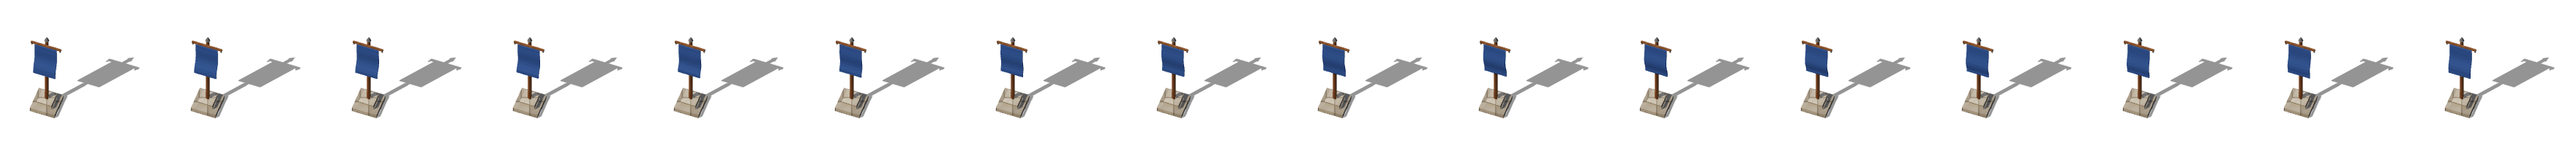
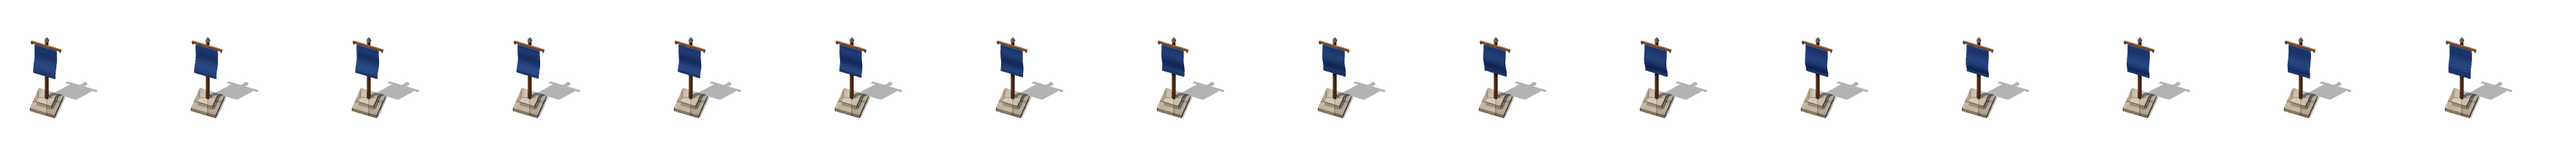
Campaign and menus: names in the title font, outlined flag with gold ripples and shorter shadows, gold glow on the selected stage, progress bar, fade-in menus, pressable buttons and gold main buttons
Claude-Session: https://claude.ai/code/session_01AE8sRRsVdpH9ETfQvtppox

Changed region(s): [[0.0, 0.39, 1.0, 0.78]]

diff --git a/index.html b/index.html
@@ -152,7 +152,8 @@ button.danger{border-color:#6b3a33;color:var(--bad)}
 .campSheet{display:flex;flex-direction:column;align-items:center;gap:8px;width:min(720px,100%);max-height:100%}
 #campMap{width:100%;flex:1 1 auto;min-height:0;display:flex;justify-content:center}
 #campMap svg{width:100%;height:auto;max-height:calc(100dvh - 190px);border-radius:10px;border:1px solid #4a4838}
-#campMap .mk{cursor:pointer} #campMap .mk.sel circle.ring{stroke:#fff;stroke-width:3;stroke-dasharray:6 4}
+#campMap .mk{cursor:pointer} #campMap .mk circle.ring{transition:stroke-width .2s} #campMap .mk.sel circle.ring{stroke:#ffd76a;stroke-width:3.5;filter:drop-shadow(0 0 6px rgba(255,205,90,.95)) drop-shadow(0 0 14px rgba(255,190,60,.6));animation:selGlow 1.8s ease-in-out infinite alternate}
+@keyframes selGlow{from{stroke-opacity:.65}to{stroke-opacity:1}}
 #campInfo{width:100%;text-align:center;font-size:12px;color:var(--muted);letter-spacing:.08em;text-transform:uppercase}
 #campMap svg{max-height:calc(100dvh - 120px)!important}
 #stagePrev{background:rgba(12,13,9,.94);z-index:62}
@@ -178,6 +179,18 @@ button.danger{border-color:#6b3a33;color:var(--bad)}
 .modal.tome #campMap svg{border:none!important;border-radius:6px;box-shadow:0 10px 34px rgba(0,0,0,.7)!important}
 /* the three map cards line up: names get two lines' room, so Mountain pass's picture sits level with the others */
 .mapBtn{justify-content:flex-start;padding:13px 13px 12px;width:min(186px,29vw)} .mapBtn b{min-height:2.3em;display:flex;align-items:center;justify-content:center;line-height:1.1}
+/* campaign progress: stages won, a slim gold bar, stars (Jack) */
+.campProg{display:flex;align-items:center;gap:8px;width:min(260px,70%);font-size:12px;color:#d9cfb3;letter-spacing:.04em;margin-top:-4px}
+.campProg i{flex:1;height:5px;border-radius:3px;background:rgba(0,0,0,.45);box-shadow:inset 0 0 0 1px rgba(201,160,62,.35);overflow:hidden} .campProg i b{display:block;height:100%;background:linear-gradient(90deg,#9c7224,#f0c95a)}
+/* menus fade in (shown by clearing [hidden], which restarts the animation) */
+.modal.tome:not([hidden]){animation:menuIn .28s ease-out} .modal.tome:not([hidden]) > *{animation:menuRise .34s ease-out}
+@keyframes menuIn{from{opacity:0}to{opacity:1}} @keyframes menuRise{from{opacity:0;transform:translateY(10px) scale(.985)}to{opacity:1;transform:none}}
+/* buttons press in and brighten; the main action is gold with a slow shine passing over it */
+.modal.tome button,#newCards button{transition:transform .08s ease-out,filter .12s} .modal.tome button:active,#newCards button:active{transform:scale(.95);filter:brightness(1.25)}
+.modal.tome button.primary,#newCards button.primary{position:relative;overflow:hidden;background:linear-gradient(180deg,#e9c463 0%,#c7962f 55%,#a47422 100%)!important;color:#2a1a06!important;border-color:#f2d27a!important;font-weight:700;text-shadow:0 1px 0 rgba(255,236,170,.6);box-shadow:0 3px 10px rgba(0,0,0,.45),inset 0 1px 0 rgba(255,245,200,.7)}
+.modal.tome button.primary:disabled,#newCards button.primary:disabled{filter:grayscale(.8) brightness(.7)}
+.modal.tome button.primary::after,#newCards button.primary::after{content:'';position:absolute;top:0;bottom:0;width:40%;left:-60%;background:linear-gradient(100deg,transparent,rgba(255,250,225,.55),transparent);animation:shine 3.2s ease-in-out infinite;pointer-events:none}
+@keyframes shine{0%,55%{left:-60%}100%{left:130%}}
 #newCards{z-index:63;background:rgba(8,10,9,.6)}
 .ncCard{width:fit-content;min-width:190px;max-width:90vw;background:var(--panel);border:1px solid #6b5a2e;border-radius:12px;padding:9px 11px;display:flex;flex-direction:row;align-items:stretch;gap:10px;box-shadow:0 6px 24px rgba(0,0,0,.5)}
 
@@ -437,7 +450,7 @@ button.armed .bIco{width:18px;height:18px;fill:none;stroke:currentColor;stroke-w
   </div>
   <div class="modal tome" id="campaign" hidden>
     <div class="campSheet">
-      <div class="mapSub">Campaign <span id="campStars"></span></div>
+      <div class="mapSub">Campaign</div><div class="campProg" id="campStars"></div>
       <div id="campMap"></div>
       <div id="campInfo">Tap a stage</div>
       <button id="campBack">Back</button>
@@ -6765,20 +6778,23 @@ function campaignSVG() {
   }
   // markers drawn with the game's own models under the overview's sun (tools/render/markers.js): a strip of looping frames each, shown
   // one at a time by stepping the strip along (calcMode discrete); `foot` is the model's foot in the frame, pinned on the stop
-  const MARKER = { FW: 220, FH: 200, NF: 16, PER: 2.513, flag: { foot: [64, 144], k: 1.15 }, banner: { foot: [64, 143], k: .95 } };
+  const MARKER = { FW: 220, FH: 200, NF: 16, PER: 2.513, flag: { foot: [64, 144], k: 1.05 }, banner: { foot: [64, 143], k: .95 } };
   const sprite = (kind, i) => { const { FW, FH, NF, PER } = MARKER, m = MARKER[kind], k = m.k;
     return `<svg x="${(-m.foot[0] * k).toFixed(1)}" y="${(-m.foot[1] * k).toFixed(1)}" width="${(FW * k).toFixed(1)}" height="${(FH * k).toFixed(1)}" viewBox="0 0 ${FW} ${FH}">` +
       `<image href="maps/${kind}.png" width="${FW * NF}" height="${FH}"><animate attributeName="x" calcMode="discrete" dur="${PER}s" begin="${(-hash2(i, 5) * PER).toFixed(2)}s" repeatCount="indefinite" values="${Array.from({ length: NF }, (_, n) => -n * FW).join(';')}"/></image></svg>`; };
   // the ground is one 3D landscape rendered from the game's own terrain, trees, rocks and buildings, seen straight down (maps/overview.jpg,
   // tools/render/overview.js); the trail, the banners, the flag and the names are drawn over it
   const marks = CAMPAIGN.map((c, i) => { const [x, y] = S[i], R = 46;
-    const spot = won[i] ? sprite('banner', i) : i === cur ? sprite('flag', i) : `<circle r="6" fill="#f2e6c4" fill-opacity=".85" stroke="#2a2b22" stroke-width="2.5"/>`;
+    const ripple = [0, 1].map(n => `<circle r="10" fill="none" stroke="#ffd76a" stroke-width="3"><animate attributeName="r" values="8;40" dur="2.2s" begin="${n * 1.1}s" repeatCount="indefinite"/><animate attributeName="stroke-opacity" values=".95;0" dur="2.2s" begin="${n * 1.1}s" repeatCount="indefinite"/></circle>`).join('');
+    const spot = won[i] ? sprite('banner', i) : i === cur ? `<ellipse rx="16" ry="16" fill="#ffd76a" fill-opacity=".28"/>${ripple}<g filter="url(#mkOutline)">${sprite('flag', i)}</g>` : `<circle r="6" fill="#f2e6c4" fill-opacity=".85" stroke="#2a2b22" stroke-width="2.5"/>`;
     // an invisible disc keeps the tap target big
     return `<g class="mk${won[i] ? ' won' : ''}${i === cur ? ' cur' : ''}" data-i="${i}" transform="translate(${x} ${y})"><circle r="${R}" fill="#000" fill-opacity=".001"/><circle class="ring" r="${R}" fill="none" stroke="#fff" stroke-width="0"/>` +
       spot +
-      `<text y="${R + 28}" text-anchor="middle" font-size="25" font-family="Georgia,serif" fill="#f2e6c4" stroke="#1a1a14" stroke-width="5" paint-order="stroke">${c.name}</text></g>`; }).join('');
+      `<text y="${R + 28}" text-anchor="middle" font-size="29" style="font-family:var(--display)" fill="#f6ecd0" stroke="#1a1a14" stroke-width="5.5" paint-order="stroke">${c.name}</text></g>`; }).join('');
   return `<svg viewBox="0 0 800 ${900 * CAMP_CY}" xmlns="http://www.w3.org/2000/svg">
-    <defs><filter id="trailRough" x="-5%" y="-5%" width="110%" height="110%"><feTurbulence type="fractalNoise" baseFrequency=".09" numOctaves="2" seed="3"/><feDisplacementMap in="SourceGraphic" scale="4"/></filter><filter id="trailSoft"><feGaussianBlur stdDeviation="2"/></filter></defs>
+    <defs><filter id="mkOutline" x="-20%" y="-20%" width="140%" height="140%"><feComponentTransfer in="SourceAlpha" result="solid"><feFuncA type="table" tableValues="0 0 0 0 1 1"/></feComponentTransfer>
+      <feMorphology in="solid" operator="dilate" radius="2.2" result="fat"/><feFlood flood-color="#fbeab0"/><feComposite in2="fat" operator="in" result="edge"/><feMerge><feMergeNode in="edge"/><feMergeNode in="SourceGraphic"/></feMerge></filter>
+      <filter id="trailRough" x="-5%" y="-5%" width="110%" height="110%"><feTurbulence type="fractalNoise" baseFrequency=".09" numOctaves="2" seed="3"/><feDisplacementMap in="SourceGraphic" scale="4"/></filter><filter id="trailSoft"><feGaussianBlur stdDeviation="2"/></filter></defs>
     <image href="maps/overview.jpg" x="0" y="0" width="800" height="${900 * CAMP_CY}" preserveAspectRatio="none"/>
     <g fill="none" stroke-linecap="round" stroke-linejoin="round"><path d="${trail}" stroke="#2e2414" stroke-opacity=".45" stroke-width="12" filter="url(#trailSoft)"/><g filter="url(#trailRough)"><path d="${trail}" stroke="#4e3f2a" stroke-width="8"/><path d="${trail}" stroke="#8a7049" stroke-width="5.2"/><path d="${trail}" stroke="#a88d5f" stroke-opacity=".55" stroke-width="2" stroke-dasharray="9 5 4 7"/></g></g>
     ${marks}
@@ -6810,7 +6826,8 @@ $('#stBack').addEventListener('click', () => { sfx('click'); $('#stagePrev').hid
 $('#campMap').innerHTML = campaignSVG();
 markMapStars();
 $('#campMap').addEventListener('click', e => { const m = e.target.closest('.mk'); if (m) { sfx('click'); openStage(+m.dataset.i); } });
-function openCampaign(i) { $('#campMap').innerHTML = campaignSVG(); $('#mapPick').hidden = true; $('#campaign').hidden = false; $('#campStars').innerHTML = `· ★ ${starTotal()}`; if (i !== undefined) openStage(i); }
+function openCampaign(i) { $('#campMap').innerHTML = campaignSVG(); $('#mapPick').hidden = true; $('#campaign').hidden = false; { const st = CAMPAIGN.filter(c => c.map), won = st.filter(c => STARS[c.map] > 0).length, stars = starTotal(), max = st.length * 3;
+    $('#campStars').innerHTML = `<span>${won}/${st.length}</span><i><b style="width:${(won / st.length * 100).toFixed(1)}%"></b></i><span>★ ${stars}/${max}</span>`; } if (i !== undefined) openStage(i); }
 $('#campBtn').addEventListener('click', () => { sfx('click'); openCampaign(); });
 $('#campBack').addEventListener('click', () => { sfx('click'); $('#campaign').hidden = true; $('#mapPick').hidden = false; });
 document.querySelectorAll('.mapBtn').forEach(b => b.addEventListener('click', () => {

diff --git a/tools/render/markers-scene.js b/tools/render/markers-scene.js
@@ -1,5 +1,5 @@
-// The campaign overview's markers, rendered with the game's own models and lit by the overview's sun (from the south-west, as in
-// overview-scene.js): the blue rally flag on the stage the player is at, and the town's garrison banner planted on every stage won.
+// The campaign overview's markers, rendered with the game's own models and lit from the overview's sun's direction (south-west, as in
+// overview-scene.js) but higher, so their shadows stay short and light (a long flag shadow looked wrong): the blue rally flag on the stage the player is at, and the town's garrison banner planted on every stage won.
 // Each is a strip of looping frames (the cloth's wave drawn with loop-friendly speeds) on a transparent background, with the model's
 // shadow on the ground. Evaluated inside the game's closure by tools/render/markers.js (window.G); returns { flag, banner } data URLs.
 (() => {
@@ -25,9 +25,9 @@
   const swap = (g, from, to) => g.traverse(o => { if (o.isMesh && o.material === from) o.material = to; });
   const sheet = (model, look) => {
     const sc = new THREE.Scene(); sc.add(model); model.traverse(o => { if (o.isMesh) { o.castShadow = true; o.receiveShadow = true; } });
-    const gr = new THREE.Mesh(new THREE.PlaneGeometry(12, 12).rotateX(-Math.PI / 2), new THREE.ShadowMaterial({ opacity: .42 })); gr.receiveShadow = true; sc.add(gr);
+    const gr = new THREE.Mesh(new THREE.PlaneGeometry(12, 12).rotateX(-Math.PI / 2), new THREE.ShadowMaterial({ opacity: .3 })); gr.receiveShadow = true; sc.add(gr);
     sc.add(new THREE.HemisphereLight('#dfe8ff', '#6b5a3a', .55));
-    const sun = new THREE.DirectionalLight('#ffe7c4', 1.25); sun.position.set(-90, 120, 60).normalize().multiplyScalar(20); sc.add(sun, sun.target);
+    const sun = new THREE.DirectionalLight('#ffe7c4', 1.25); sun.position.set(-90, 260, 60).normalize().multiplyScalar(20); sc.add(sun, sun.target);
     sun.castShadow = true; sun.shadow.mapSize.set(1024, 1024); Object.assign(sun.shadow.camera, { left: -4, right: 4, top: 4, bottom: -4, near: 1, far: 50 }); sun.shadow.bias = -.0005;
     // seen from the south, high up, like a figure on a map: up the screen is north, as on the overview
     const h = look.h, cam = new THREE.OrthographicCamera(-h * FW / FH / 2, h * FW / FH / 2, h / 2, -h / 2, .1, 100);

diff --git a/CLAUDE.md b/CLAUDE.md
@@ -95,7 +95,7 @@ The whole game is currently one self-contained file: `index.html` (~165 KB, thre
 ## Gameplay summary
 - 28×28 grid of 2 m cells. Start: castle prebuilt in the middle, 3 villagers, gold 40, wood 45, stone 0, food 20.
 - **Day/night**: 5 waves on Meadow and River isle (`WAVES_STD`; `WAVES`, `NIGHTS`, `DAYLEN`, `SPAWN_GAP` are set per map by `mapRules()`; Mountain pass has 2). Day 1 lasts 300 s, days 2–5 last 150 s (`DAYLEN`); the last `DUSK` 40 s fade slowly to night (light and dusk colours in `updateLight`), with a "Dusk · Night N soon" banner and log line as it starts. Nothing is earned at night: no payouts (the `econT` ring waits for dawn) and a load carried in after dark is lost (`deliver`). Night ends when all enemies are dead. Summary screen at the end, with a star rating (`endGame`): 0 if the castle fell, 1 for surviving, 2 with some of the goals, 3 with all of them; goals: no buildings lost, no soldiers lost, castle above half health (listed with ticks, `#sumGoals`). The best per map is kept in `localStorage['mtd-stars']` (`STARS`, `starsHTML`, `starTotal`) and shown on the map cards (`markMapStars`); the total shows on the campaign screen.
-- **Campaign overview** (title screen → Campaign, `#campaign`): a sketch: one hand-drawn SVG map (`campaignSVG`: sea, meadows in the south, woods, hills, snowy mountains and the raiders' reddish north; the river (Jack's line) comes down from the north-east mountains past Horsefields and Meadowmere, splits round Riverbend (two branches, Riverbend between them) and runs out at the west edge above Greenvale; lands where a resource is scarce, so the stop's new building is the answer, all blending into each other (Jack wants it natural, never a sudden patch): each land is a soft ellipse in `CAMP_LAND` (centre, radii, colour) drawn blurred (`campSoft`) and clipped to the coast, and `landW(kind, x, y)` gives how deep a spot is in it; tree density is worked out from those weights everywhere (a 13 px grid with jitter: the deep woods dense and dark, meadow copses from value noise, thinning into dry grass, none on desert or plains, few on highlands and marsh, none in the bare north), and ground detail follows them too (dunes, dry shrubs, highland rocks, marsh pools and reeds). The lands: deep woods round Ironcrag (7, no stone: the mine), rocky highlands round Siegeford (8, little wood: catapults' stone is at hand), marsh along the river at Meadowmere (9, poor fields: the farmhouse), and in the east dry grass round a desert at Dunewell (5, few trees: forester and well) running north into the open plains of Horsefields (10, stables) and south to the dry hills of Watchhill (4). Stonebridge sits on the river. Markers were moved to sit in their lands; each stop's `land` line shows under its name in the info) with a dashed road through twelve numbered markers, the last two red boss markers (`CAMPAIGN`: name, position in the 800 × 900 view, `land` line, the buildings each adds; river in `CAMP_RIVER`, cubic segments, also sampled to keep trees off the water); the overview is drawn half again as tall as its 800 × 900 plan (`CAMP_CY` 1.5: the ground, lands, river and road are stretched in one group; trees, rocks, peaks and markers keep their shapes and are just moved down, `T(y, el)`), so it fills a phone's height, with only "Tap a stage" under it. **The overview's ground is now one 3D landscape** (Jack: rebuild it in 3D top-down from the stages; thumbnails of each stage were tried and dropped): `maps/overview.jpg` (2400 × 4050, JPEG .9: Jack found 1200 px blurry; ground grid 0.5 m (`GS`), stage colours sampled bilinear, not nearest (that drew stair-stepped banks)), rendered by `node tools/render/overview.js [--three …]` from `tools/render/overview-scene.js` (evaluated inside the game through `G`): a 200 × 337.5 m world (the plan × .25 across, × .375 down) straight down with an orthographic camera and the game's sun; heights and colours by the same lands (`CAMP_LAND`, `landW`): dark woods, golden dry grass, sand with dune ridges, fresh plains, grey-green rocky highlands, olive marsh with pools, the raiders' red land round Raider Keep, snowy mountains across the far north; the coast (`LAND`'s curves) to a beach and the sea, the river carved from `CAMP_RIVER`, the game's own trees and rocks between the stops; and **at every stop the stage itself** (Jack: the overview must match the stage maps, e.g. Siegeford's river): each built stage is started once (`startGame`) and shrunk into a round patch of radius `PATCH` 21 m at its stop (scale 21 / (SIZE / 2)): its heights (scaled the same) and vertex colours blended in over the patch's outer quarter, its water (below the sea plane), bridges, trees, rocks, Watchhill's ruin and the bosses' forts (no castle, other buildings or roads: Jack). **Blending** (Jack: stages must sit naturally in the overview): each stage's rim (its height and colour sampled all round just inside the patch, averaged over ±28° and over dry ground only) carries on outward and fades back into the overview's own land over another patch's width, every nearby stage weighted together (no seams); where a stage's water reaches its rim a meandering stream (`TRIB`) runs on to the nearest bit of the big river outside every patch, or to the map's edge; the big river bends round the outside of every patch (its points pushed out to 1.12 × `PATCH`) and is never carved inside a stage that has its own water. The land runs right to the picture's edges (no sea or coast: Jack didn't want empty background at the sides) (cloned without `userData`: three copies it through JSON and the game's references there overflow the stack). Re-run after changing `CAMPAIGN` positions, `CAMP_LAND` or `CAMP_RIVER`. `campaignSVG` (re-drawn on every `openCampaign`) draws the picture and over it markers made from the game's own 3D models (Jack: flat painted marks looked stuck on; an earlier red brush X with red dashes, after Jack's reference, was dropped): every stage won (`STARS[map]` > 0) has the town's garrison banner planted on it, the current stage (the first not won, `cur`) the blue rally flag, both waving and lit by the overview's sun with their shadows; stages ahead show a small pale dot. They are sprite strips (`maps/banner.png`, `maps/flag.png`: 16 frames of 220 × 200 px, one loop of the cloth's wave in 2.513 s) rendered by `node tools/render/markers.js [--three …]` (`markers-scene.js`: the rally flag as `setRally` builds it with a bigger cloth, and `makeBanner`, their ripple shaders given loop-friendly speeds 2.5/5/10 rad/s, seen from the south 54° up with an orthographic camera, shadows on a `ShadowMaterial` ground; it prints the foot points); `MARKER` in `campaignSVG` holds the frame size, loop, foot points and scale (flag 1.15, banner .95), and `sprite()` shows one frame at a time (a nested `<svg>` clipping the strip, SMIL `animate` on x, `calcMode` discrete, each stop's loop offset by hash). A worn footpath (the game's packed-earth colours: a soft dark shadow, a `#4e3f2a` edge, a `#8a7049` middle and a broken lighter centre line, edges roughened by `#trailRough`) winds from stage 1 through every stage won up to the flag. No stage numbers or badges, the bosses' too (Jack); every stop keeps its name; the selected stop gets a dashed white ring. Tapping a stage opens its **stage preview** (`#stagePrev`, `openStage`): the stage's picture (`STAGE_PIC`: the real stage seen straight down, `maps/vale.jpg` / `maps/bridge.jpg` / `maps/cross.jpg` / `maps/watch.jpg` / `maps/dune.jpg` / `maps/bend.jpg` / `maps/crag.jpg` / `maps/ford.jpg` / `maps/mere.jpg` / `maps/plains.jpg` / `maps/keep.jpg` / `maps/hold.jpg` from `node tools/render/maps.js vale bridge cross watch dune bend crag ford mere plains keep hold` (the 80 m boss maps framed at `VIEW` 40, 2, 40, dist 92), drawn at 1080 px (`PX`) so they stay sharp on a phone (Jack found 400 px blurry and wanted top-down, not angled), framed like the map cards (`VIEW` 28, 0, 28, dist 64: no sky past the map's edges); a stage with only a sketch can use it with `tag: 'Sketch'`; others "Soon"), "Stage N · Name", its sub and land line, the buildings it brings in (icons and names), stars, Back and (playable stages, `map`) Play. Landscape puts the picture beside the details. Restart / Play again on a stage go back to the campaign with its preview open (`showStart`, `openCampaign(stop)`).
+- **Campaign overview** (title screen → Campaign, `#campaign`): a sketch: one hand-drawn SVG map (`campaignSVG`: sea, meadows in the south, woods, hills, snowy mountains and the raiders' reddish north; the river (Jack's line) comes down from the north-east mountains past Horsefields and Meadowmere, splits round Riverbend (two branches, Riverbend between them) and runs out at the west edge above Greenvale; lands where a resource is scarce, so the stop's new building is the answer, all blending into each other (Jack wants it natural, never a sudden patch): each land is a soft ellipse in `CAMP_LAND` (centre, radii, colour) drawn blurred (`campSoft`) and clipped to the coast, and `landW(kind, x, y)` gives how deep a spot is in it; tree density is worked out from those weights everywhere (a 13 px grid with jitter: the deep woods dense and dark, meadow copses from value noise, thinning into dry grass, none on desert or plains, few on highlands and marsh, none in the bare north), and ground detail follows them too (dunes, dry shrubs, highland rocks, marsh pools and reeds). The lands: deep woods round Ironcrag (7, no stone: the mine), rocky highlands round Siegeford (8, little wood: catapults' stone is at hand), marsh along the river at Meadowmere (9, poor fields: the farmhouse), and in the east dry grass round a desert at Dunewell (5, few trees: forester and well) running north into the open plains of Horsefields (10, stables) and south to the dry hills of Watchhill (4). Stonebridge sits on the river. Markers were moved to sit in their lands; each stop's `land` line shows under its name in the info) with a dashed road through twelve numbered markers, the last two red boss markers (`CAMPAIGN`: name, position in the 800 × 900 view, `land` line, the buildings each adds; river in `CAMP_RIVER`, cubic segments, also sampled to keep trees off the water); the overview is drawn half again as tall as its 800 × 900 plan (`CAMP_CY` 1.5: the ground, lands, river and road are stretched in one group; trees, rocks, peaks and markers keep their shapes and are just moved down, `T(y, el)`), so it fills a phone's height, with only "Tap a stage" under it. **The overview's ground is now one 3D landscape** (Jack: rebuild it in 3D top-down from the stages; thumbnails of each stage were tried and dropped): `maps/overview.jpg` (2400 × 4050, JPEG .9: Jack found 1200 px blurry; ground grid 0.5 m (`GS`), stage colours sampled bilinear, not nearest (that drew stair-stepped banks)), rendered by `node tools/render/overview.js [--three …]` from `tools/render/overview-scene.js` (evaluated inside the game through `G`): a 200 × 337.5 m world (the plan × .25 across, × .375 down) straight down with an orthographic camera and the game's sun; heights and colours by the same lands (`CAMP_LAND`, `landW`): dark woods, golden dry grass, sand with dune ridges, fresh plains, grey-green rocky highlands, olive marsh with pools, the raiders' red land round Raider Keep, snowy mountains across the far north; the coast (`LAND`'s curves) to a beach and the sea, the river carved from `CAMP_RIVER`, the game's own trees and rocks between the stops; and **at every stop the stage itself** (Jack: the overview must match the stage maps, e.g. Siegeford's river): each built stage is started once (`startGame`) and shrunk into a round patch of radius `PATCH` 21 m at its stop (scale 21 / (SIZE / 2)): its heights (scaled the same) and vertex colours blended in over the patch's outer quarter, its water (below the sea plane), bridges, trees, rocks, Watchhill's ruin and the bosses' forts (no castle, other buildings or roads: Jack). **Blending** (Jack: stages must sit naturally in the overview): each stage's rim (its height and colour sampled all round just inside the patch, averaged over ±28° and over dry ground only) carries on outward and fades back into the overview's own land over another patch's width, every nearby stage weighted together (no seams); where a stage's water reaches its rim a meandering stream (`TRIB`) runs on to the nearest bit of the big river outside every patch, or to the map's edge; the big river bends round the outside of every patch (its points pushed out to 1.12 × `PATCH`) and is never carved inside a stage that has its own water. The land runs right to the picture's edges (no sea or coast: Jack didn't want empty background at the sides) (cloned without `userData`: three copies it through JSON and the game's references there overflow the stack). Re-run after changing `CAMPAIGN` positions, `CAMP_LAND` or `CAMP_RIVER`. `campaignSVG` (re-drawn on every `openCampaign`) draws the picture and over it markers made from the game's own 3D models (Jack: flat painted marks looked stuck on; an earlier red brush X with red dashes, after Jack's reference, was dropped): every stage won (`STARS[map]` > 0) has the town's garrison banner planted on it, the current stage (the first not won, `cur`) the blue rally flag, both waving, lit from the overview's sun's direction but higher (short, light shadows: Jack found the long flag shadow wrong); the flag is outlined in pale gold (`#mkOutline`: the sprite's solid parts only, the shadow's alpha is thresholded away, dilated and flooded) over a soft gold disc with two gold ripples spreading from its foot (SMIL on `r` and opacity), so the player's stage stands out on any ground; stages ahead show a small pale dot. They are sprite strips (`maps/banner.png`, `maps/flag.png`: 16 frames of 220 × 200 px, one loop of the cloth's wave in 2.513 s) rendered by `node tools/render/markers.js [--three …]` (`markers-scene.js`: the rally flag as `setRally` builds it with a bigger cloth, and `makeBanner`, their ripple shaders given loop-friendly speeds 2.5/5/10 rad/s, seen from the south 54° up with an orthographic camera, shadows on a `ShadowMaterial` ground; it prints the foot points); `MARKER` in `campaignSVG` holds the frame size, loop, foot points and scale (flag 1.15, banner .95), and `sprite()` shows one frame at a time (a nested `<svg>` clipping the strip, SMIL `animate` on x, `calcMode` discrete, each stop's loop offset by hash). A worn footpath (the game's packed-earth colours: a soft dark shadow, a `#4e3f2a` edge, a `#8a7049` middle and a broken lighter centre line, edges roughened by `#trailRough`) winds from stage 1 through every stage won up to the flag. No stage numbers or badges, the bosses' too (Jack); every stop keeps its name, in the title's font (IM Fell English SC via `var(--display)`, Jack); the selected stop gets a steady gold glowing ring (`.mk.sel circle.ring`, drop-shadow glow, `selGlow` pulse). Under "Campaign" a progress row (`.campProg`, `#campStars`): stages won / stages, a slim gold bar, ★ stars / 3 × stages. Tapping a stage opens its **stage preview** (`#stagePrev`, `openStage`): the stage's picture (`STAGE_PIC`: the real stage seen straight down, `maps/vale.jpg` / `maps/bridge.jpg` / `maps/cross.jpg` / `maps/watch.jpg` / `maps/dune.jpg` / `maps/bend.jpg` / `maps/crag.jpg` / `maps/ford.jpg` / `maps/mere.jpg` / `maps/plains.jpg` / `maps/keep.jpg` / `maps/hold.jpg` from `node tools/render/maps.js vale bridge cross watch dune bend crag ford mere plains keep hold` (the 80 m boss maps framed at `VIEW` 40, 2, 40, dist 92), drawn at 1080 px (`PX`) so they stay sharp on a phone (Jack found 400 px blurry and wanted top-down, not angled), framed like the map cards (`VIEW` 28, 0, 28, dist 64: no sky past the map's edges); a stage with only a sketch can use it with `tag: 'Sketch'`; others "Soon"), "Stage N · Name", its sub and land line, the buildings it brings in (icons and names), stars, Back and (playable stages, `map`) Play. Landscape puts the picture beside the details. Restart / Play again on a stage go back to the campaign with its preview open (`showStart`, `openCampaign(stop)`).
 - **Waves** (`WAVES`): each wave lists how many of each kind come by tier, `{ kind: [tier 1, tier 2, tier 3] }` (`WAVES_STD`): spearmen are the basic raider and come first; 1 = 7 spears + 2 archers; 2 adds swordsmen and a ram; 3 crossbows, horse spears and a ballista; 4 horse swords, a catapult, tiers climb; 5 mostly tier 2–3 with a great ballista, a trebuchet and two rams. `startNight` builds the queue (`[kind, spawn point, tier]`): spearmen first, the other foot and horse mixed in at random, siege engines at the tail. The captain is gone.
 - **Raider kinds** (`ENEMY`; tier multipliers `RAIDER_T` hp ×1/1.6/2.3, dmg ×1/1.3/1.65; gallery names `RAIDER_NAME`): spear, sword (round shield; tier 3 a red one), archer (bow), xbow (crossbow, `xbowPose`, short bolts, range 5.5, a shot every 1.2 s (archers 1.8 s; Jack wants crossbows the faster shooters) for 7 damage (archers 6)), lancer (spear on a horse), rider (sword and shield on a horse), and three wheeled siege engines (`engine: true`, built by `makeEngine`, crewed by two figures of its tier standing in the engine's own frame, `animEngine`): ballista (the town's swivel bow `ballistaTurret` on a wheeled carriage, a timber mantlet from tier 2; the deck stops short of the back and the rear axle sits under its edge, so the crew stand in between the rails under the winch; the bow sits on a short stand (its post runs down through the deck) so the crank is within their reach; the mantlet stands on the deck's front edge, leaning out; a straight bolt, range 10), catapult (the town's `makeCatapult(tier)`: catapult / mangonel / trebuchet; a high stone sized by `CATA_SHOT` with `blastFx`, range 13), ram (a log slung level on two ropes (`RAM_Y`, `RAM_ROPE`) from a frame on four wheels; tier 2 a plank roof, tier 3 hides banded in iron and an iron head; range 1.25 from its middle). Crew: while an engine rolls both push from behind (lean in, arms forward); once it's in range the ballista's and catapult's crew walk to their work (`crewGo`): the loader kneels at the winch and turns the crank (`crewAim` puts both hands on the handle), which draws the ballista's slider and string back by the pulley rope or winds the catapult's arm down by its rope, and the reload (`e.load`, over `ENG_LOAD` × rate) only runs while he winds; the gunner holds the trigger line (`crewRope`) and yanks it to loose (`e.fireT` .35 s); they shoot only with both at their posts and fully wound (`e.crewReady`). The ram stays put at the wall: its pair take the log's back end and swing it on its ropes over `RAM_T` 2 s (`ramSwing`: haul it back .42 rad, drive it in faster and faster to .2, the blow (`RAM_HIT` .55) bounces it back a little (−.08), push it up again; Jack found a bigger knock-back threw the crew about), stepping with it a little behind (eased at 7/s), both hands on the end (`crewAim`); while it rolls they push the frame from behind. Engines from tier 2 fly a red pennant, never fight soldiers, turn slowly to aim (only shoot within .25 rad), keep others off by `ENEMY[k].r`, and when broken throw timbers and dust (`engineWreck`), slump and sink. Targets (`pickTarget`): spearmen the nearest building; swordsmen and horse spears the nearest tower or siege engine (`DEFENCE`: anything with archers or crew but the castle; else nearest building); horse swords the castle; archers, crossbows and ballistas the nearest non-wall building, shooting over walls (`lob` adds 3.5 m reach when a wall blocks them); catapults defences, then any non-wall building; rams walls and gates (`WALLY`), else the castle. Soldiers reach `ENEMY[k].r` further to hit an engine.
 - **Raider looks by tier** (`raiderArmour(p, tier)`, the same for every kind, only the weapon differs): tier 1 a plain red shirt (`raiderRed`) with a rope belt, bare-headed; tier 2 a red quilted gambeson (`raiderQuiltM`) with a short skirt, leather belt and the iron helm with nose and cheek guards (`makeHelm('raider')`); tier 3 mail under a red surcoat, a closed iron great helm (`makeHelm('greathelm')`: flat top, eye slit, breaths, a cross on the face) and dark iron shoulder plates. Horses wear a red blanket; tier 2+ a red cloth down the flanks, tier 3 an iron plate down the face. Gallery rows Raiders 1–3 and Raider siege.
@@ -175,7 +175,7 @@ Roof colours: tier 3 roofs use `M.roofBlue` (blue is the town's colour, red the 
 - Audio starts on the first tap/key (`unlockAudio` on pointerdown, pointerup, touchend, click and keydown, retrying until the context runs and the wanted loops play: phones only count a finger lifting as a gesture; `navigator.audioSession.type = 'playback'` so iOS plays sound with the silent switch on). Mute (`#muteBtn`, key M) persists in localStorage; audio pauses when the tab is hidden. Audio state uses `var` because `sfx()`/`setMusic()` run during the startup reset.
 
 ## UI
-- **Menu look** (`.modal.tome` on the title/map picker, campaign, stage preview and town picker): the menus sit in the game's own world (Jack asked for a background that blends with the overview, the stage previews and the town picker): `maps/menu-bg.jpg` is `maps/overview.jpg` shrunk to 240 × 405 and blurred (PIL; regenerate it after re-rendering the overview), so the browser's upscale is soft at no cost (no CSS blur filter), under a light darkening and a vignette to near black at the edges; the town picker and the stage preview's details sit on dark translucent panels (`rgba(14,16,11,.72)`) with a muted gold hairline, options and map cards are dark glass with gold-tinted borders, every box and picture (map cards, the town picker's panel, the stage picture and its details) has a carved gold frame (Jack asked for borders): a gold edge, a faint second line inside it, small gold corner pieces (`::after` with four corner svgs), and the campaign map has the same frame drawn into its svg (`ORN_PATH`, a gold rim and an inner line); the three map cards are the same height with room for two-line names (`.mapBtn b` min-height 2.3em), so Mountain pass lines up; the usual light text and gold titles. Tried and dropped: full-screen old paper (with and without burn marks), dark tooled leather with a gold frame, and a parchment scroll with rolled ends. Data-URI svgs must escape `#` (`%23`), or the image silently fails.
+- **Menu look** (`.modal.tome` on the title/map picker, campaign, stage preview and town picker): the menus sit in the game's own world (Jack asked for a background that blends with the overview, the stage previews and the town picker): `maps/menu-bg.jpg` is `maps/overview.jpg` shrunk to 240 × 405 and blurred (PIL; regenerate it after re-rendering the overview), so the browser's upscale is soft at no cost (no CSS blur filter), under a light darkening and a vignette to near black at the edges; the town picker and the stage preview's details sit on dark translucent panels (`rgba(14,16,11,.72)`) with a muted gold hairline, options and map cards are dark glass with gold-tinted borders, every box and picture (map cards, the town picker's panel, the stage picture and its details) has a carved gold frame (Jack asked for borders): a gold edge, a faint second line inside it, small gold corner pieces (`::after` with four corner svgs), and the campaign map has the same frame drawn into its svg (`ORN_PATH`, a gold rim and an inner line); the three map cards are the same height with room for two-line names (`.mapBtn b` min-height 2.3em), so Mountain pass lines up; the usual light text and gold titles. Menus fade in and their content rises a little (`menuIn`/`menuRise`, restarted whenever `hidden` is cleared); buttons press in and brighten (`:active` scale .95); the main action (`button.primary`: Play, Start, Next, Play again in the menus and the new-building cards) is gold with dark text and a slow shine passing over it (`shine`). Tried and dropped: full-screen old paper (with and without burn marks), dark tooled leather with a gold frame, and a parchment scroll with rolled ends. Data-URI svgs must escape `#` (`%23`), or the image silently fails.
 - Overview and picker taps play `click` (stage markers, Back, Play, Start, map cards).
 - **Menus**: nothing runs while a menu is up (`menuOn()`: the map picker, town picker, campaign, stage preview or new-building cards; `frame` treats it as paused, and P / the pause button can't unpause under it). The startup `setPaused(false)` used to set the game running under the title screen, paying out gold.
 - **Top panel**: sun/moon + phase, 20 s payout ring, "Skip day", resource chips in a flex row sized to their contents (`.res`; amounts ≥ 1000 shown as 1.2k / 12k via `shortN`; extra-tight under 370 px; the landscape panel is up to 326 px), six of them: gold, wood, stone, food, then houses (`#cHouse`, house icon: villagers alive / beds (residents of every built house plus the castle), red `.short` while anyone is homeless or villagers outnumber beds, named Housing; the fallen waiting 60 s to come back aren't counted) and idle (`#cPop`, by day the brown villager icon and the idle count alone (no job, no site), dimmed `.dim` at 0, named Idle; by night the blue soldier icon: manning / villagers (anyone with a `post`), named Soldiers); tapping a chip shows its name under it via `showTip`/`CHIP_NAME`/`chipName`), collapsible short "Town log".
